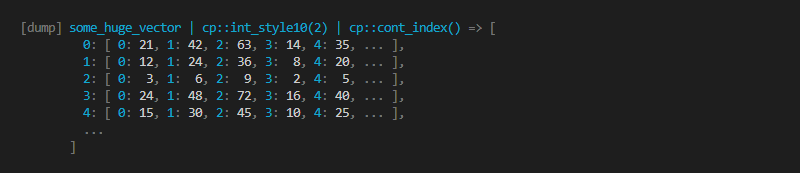
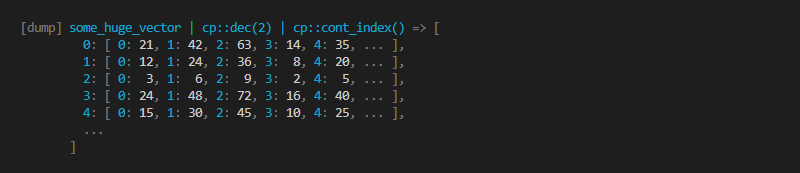
replace int_style with dec, bin manipulators in images

Changed region(s): [[0.2812, 0.1156, 0.625, 0.2023]]

diff --git a/readme/formatting-with-manipulators.cpp b/readme/formatting-with-manipulators.cpp
@@ -22,7 +22,7 @@ int main() {
   std::clog << std::endl;
 
   // manipulators.png
-  cpp_dump(some_huge_vector | cp::show_back(10) | cp::show_both_ends(10) | cp::int_style10(2));
+  cpp_dump(some_huge_vector | cp::show_back(10) | cp::show_both_ends(10) | cp::dec(2));
 
   std::clog << std::endl;
 
@@ -32,13 +32,13 @@ int main() {
   std::clog << std::endl;
 
   // int-style.png
-  cpp_dump(some_huge_vector | cp::int_style(2, 8, 2) | cp::show_front(5) | cp::show_front(5));
+  cpp_dump(some_huge_vector | cp::bin(8, 2) | cp::show_front(5) | cp::show_front(5));
 
   std::clog << std::endl;
 
   // cont-index.png
   cp::max_iteration_count = 5;
-  cpp_dump(some_huge_vector | cp::int_style10(2) | cp::cont_index());
+  cpp_dump(some_huge_vector | cp::dec(2) | cp::cont_index());
 
   std::clog << std::endl;
 }
